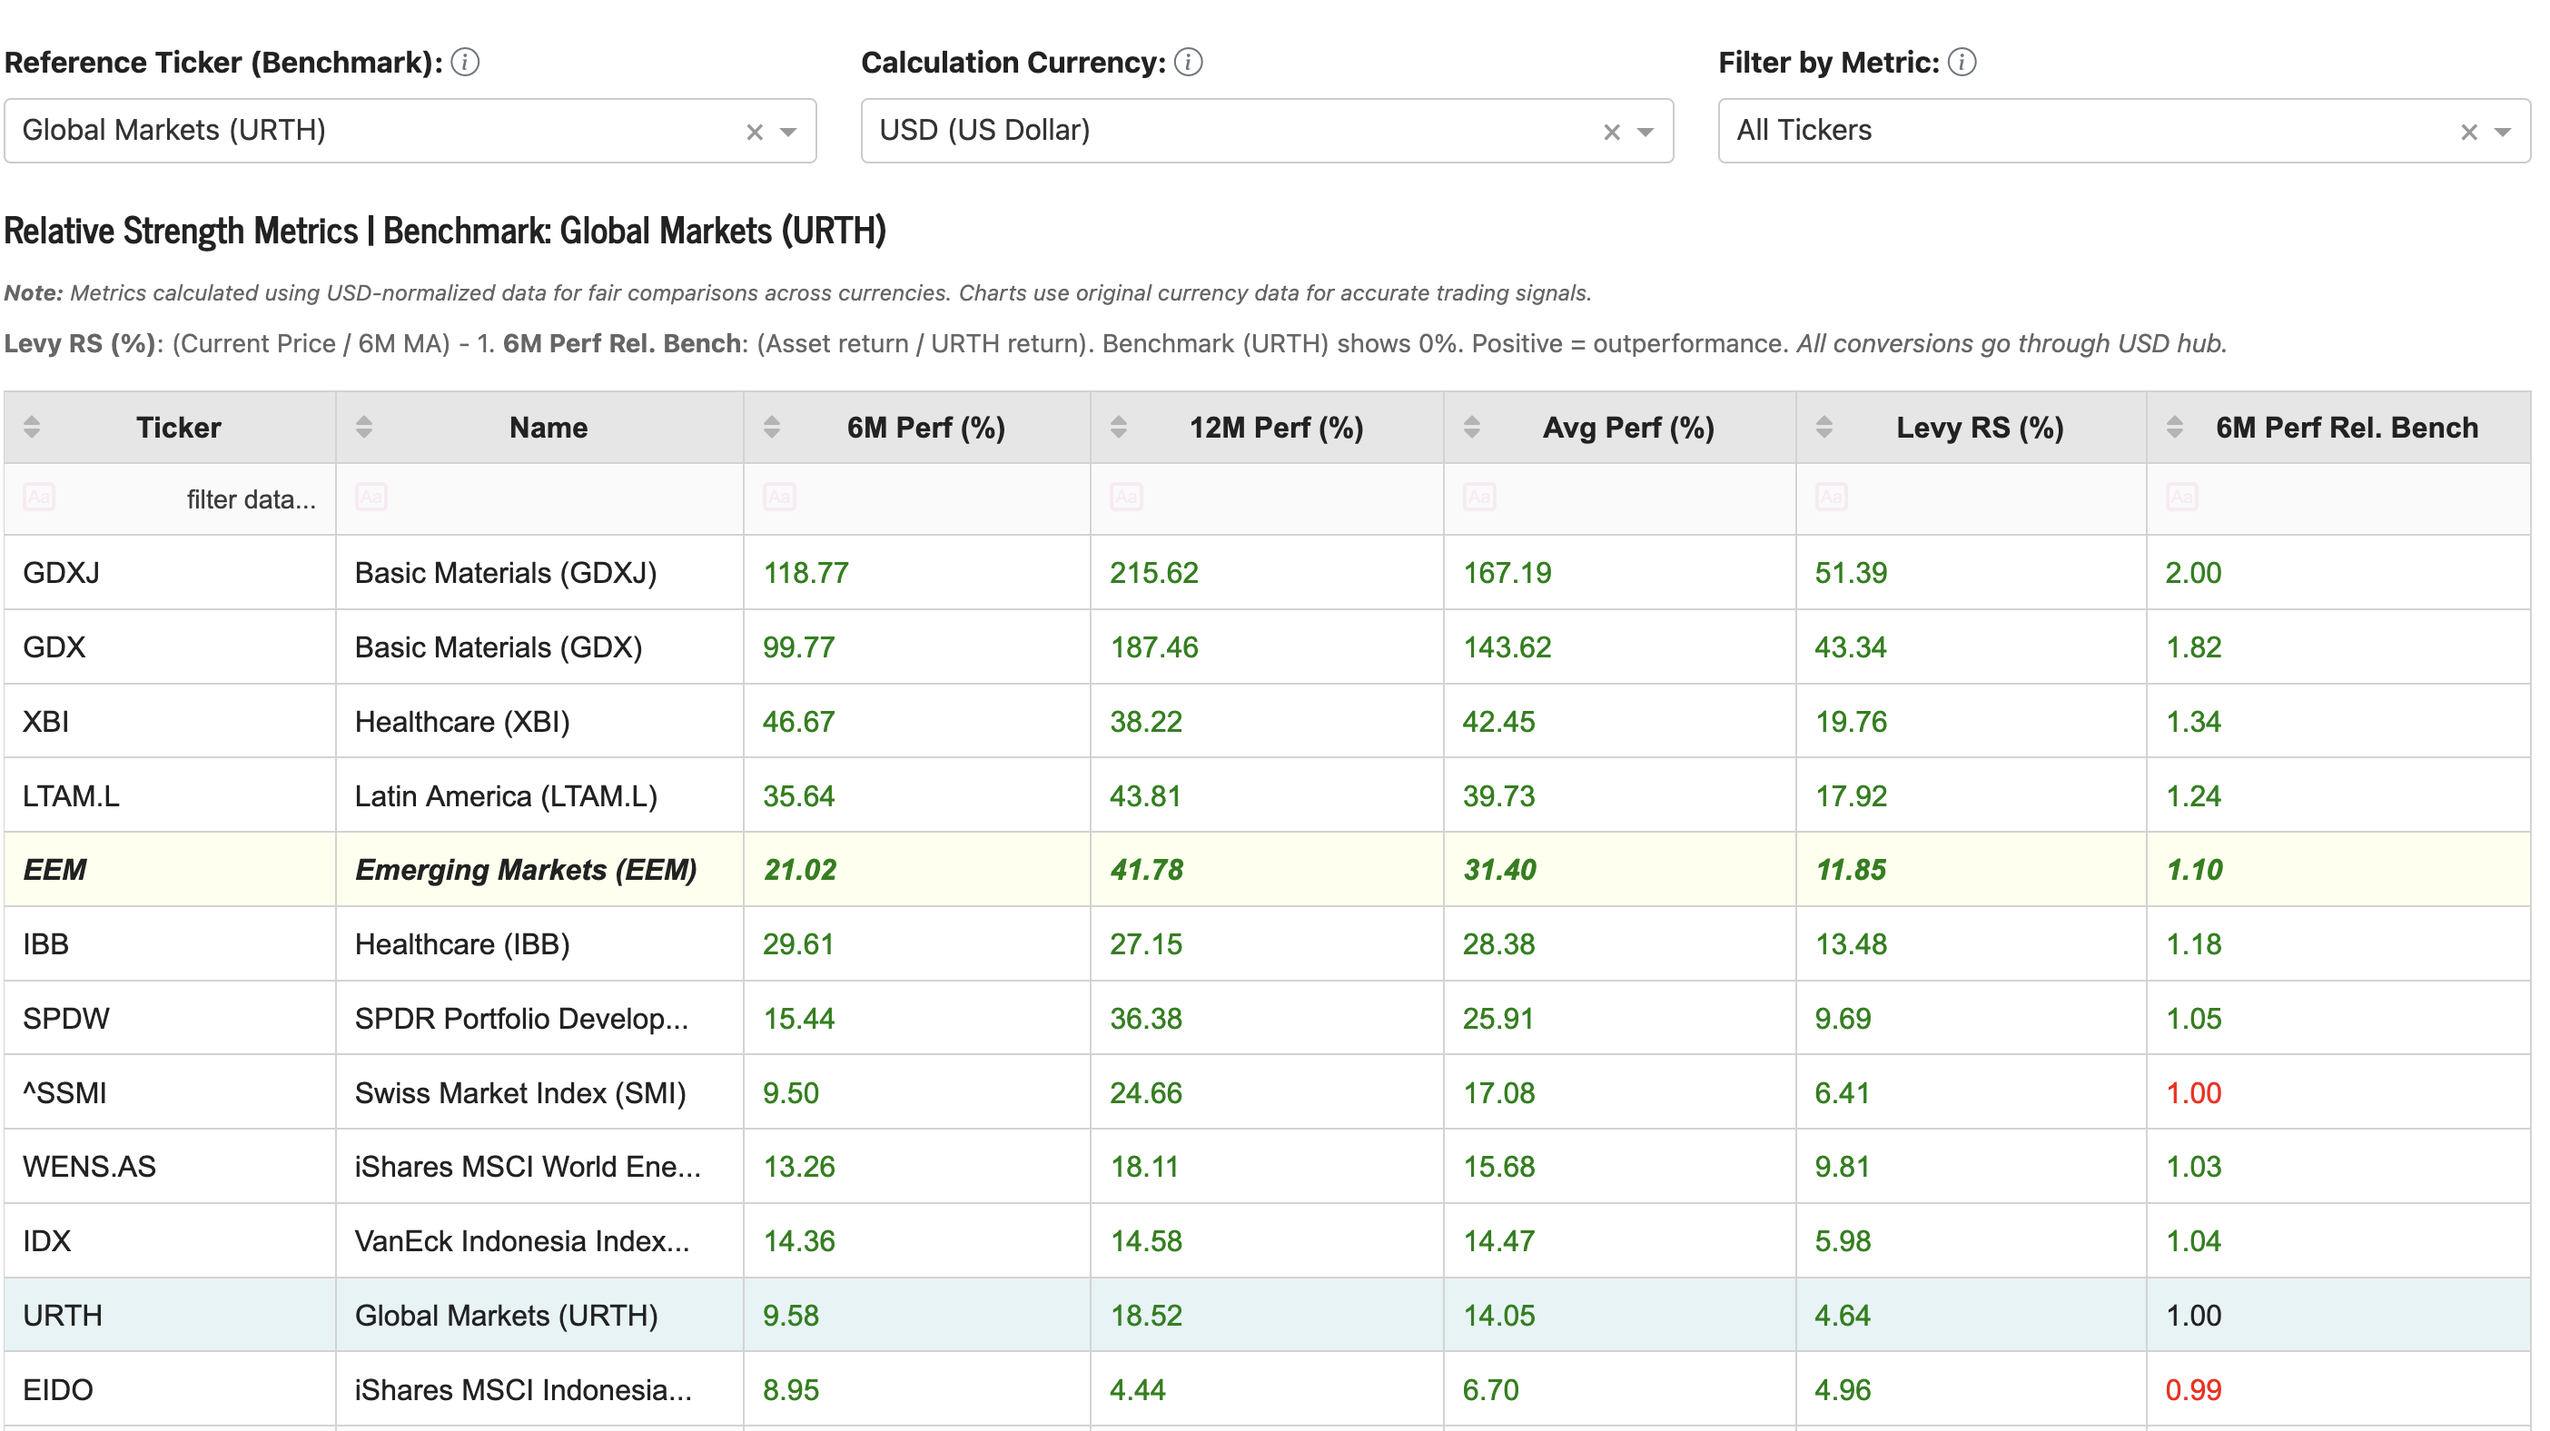
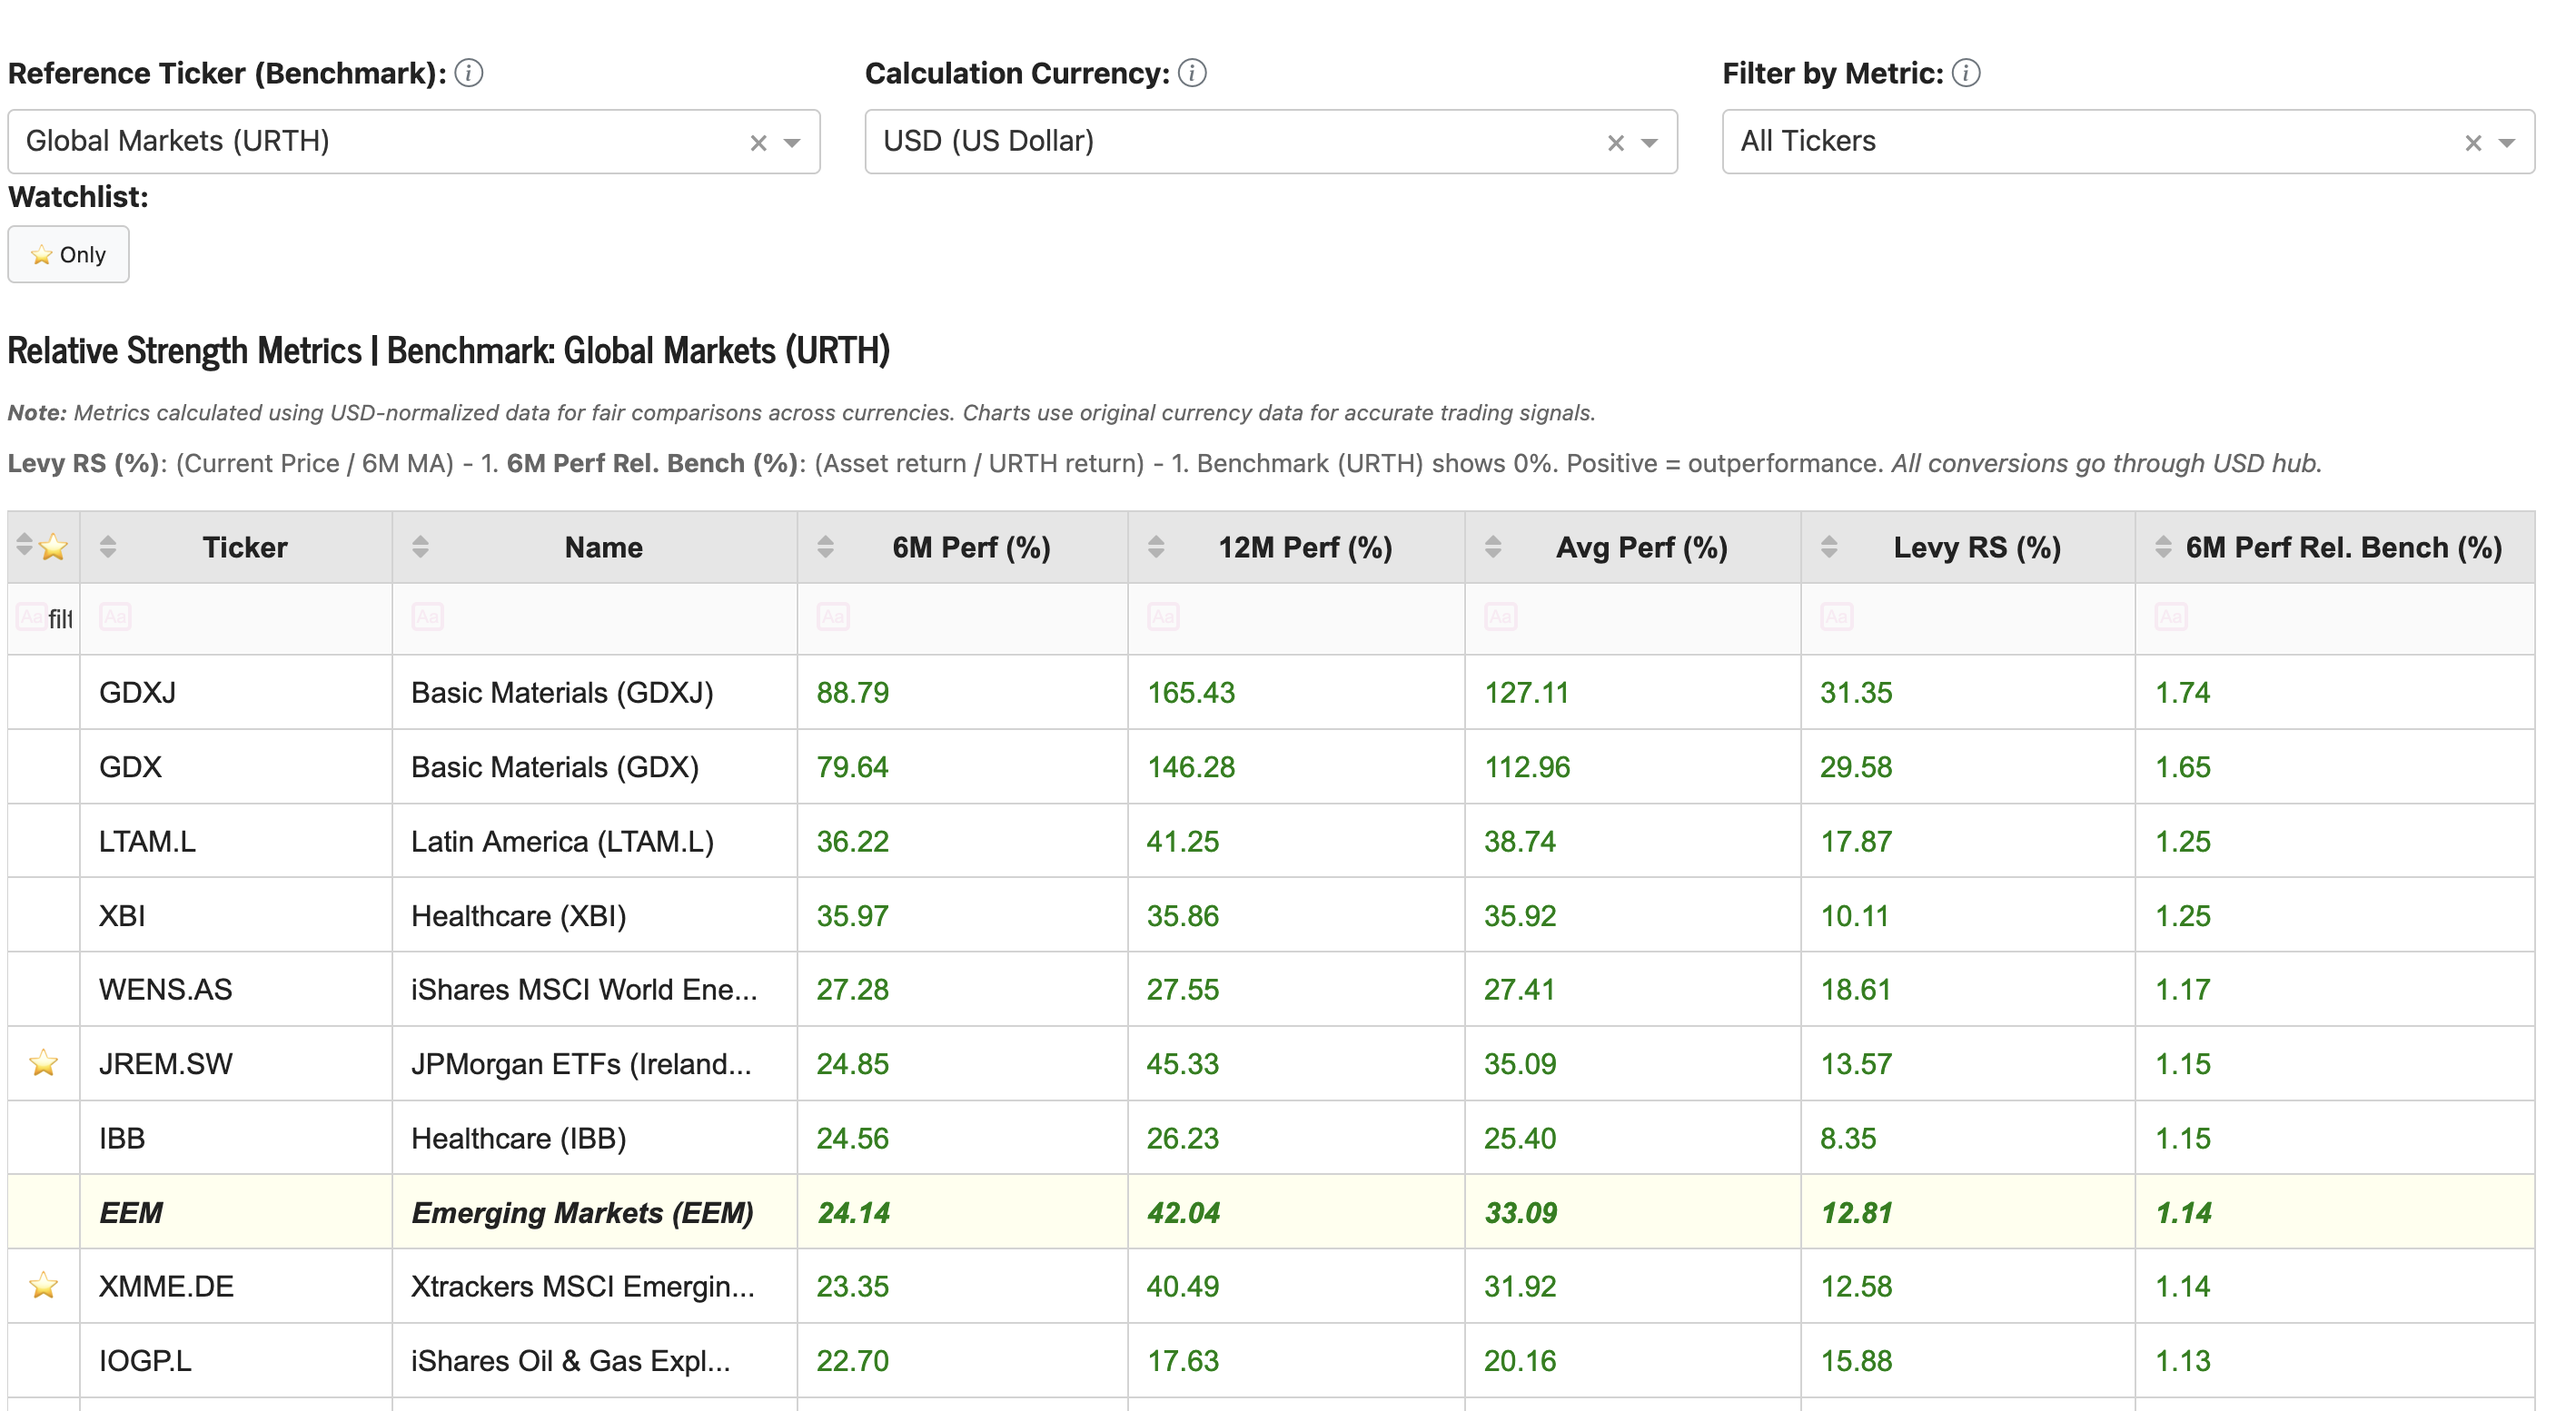
update README

Changed region(s): [[0.0, 0.0309, 1.0, 1.0], [0.6816, 0.9266, 0.7126, 0.9575]]

diff --git a/README.md b/README.md
@@ -111,7 +111,7 @@ Re-entry signals indicate that the asset has found support and may be resuming i
 ![Main Chart View](docs/images/app_main_chart.png)
 
 The main chart displays:
-- Calibration options
+- Calibration options and watchlist controls
 - Candlestick price data (daily, monthly, or quarterly)
 - Dual Bollinger Bands (40M/20M or 20M/10M)
 - Long and short moving averages
@@ -140,6 +140,7 @@ The relative strength table shows:
 - Sortable and filterable columns for quick analysis
 - Performance Metrics in different currencies
 - Highlighting of current selected ticker and benchmark
+- Star/unstar tickers to add or remove them from the watchlis
 
 
 ## Strategy Implementation
@@ -670,6 +671,6 @@ Strategy methodology based on work by financial analyst Cortés. Technical analy
 
 ---
 
-**Version**: 0.1.1  
-**Last Updated**: 2026-01-03  
+**Version**: 0.2.0  
+**Last Updated**: 2026-02-19  
 **Maintainer**: David Fischer
